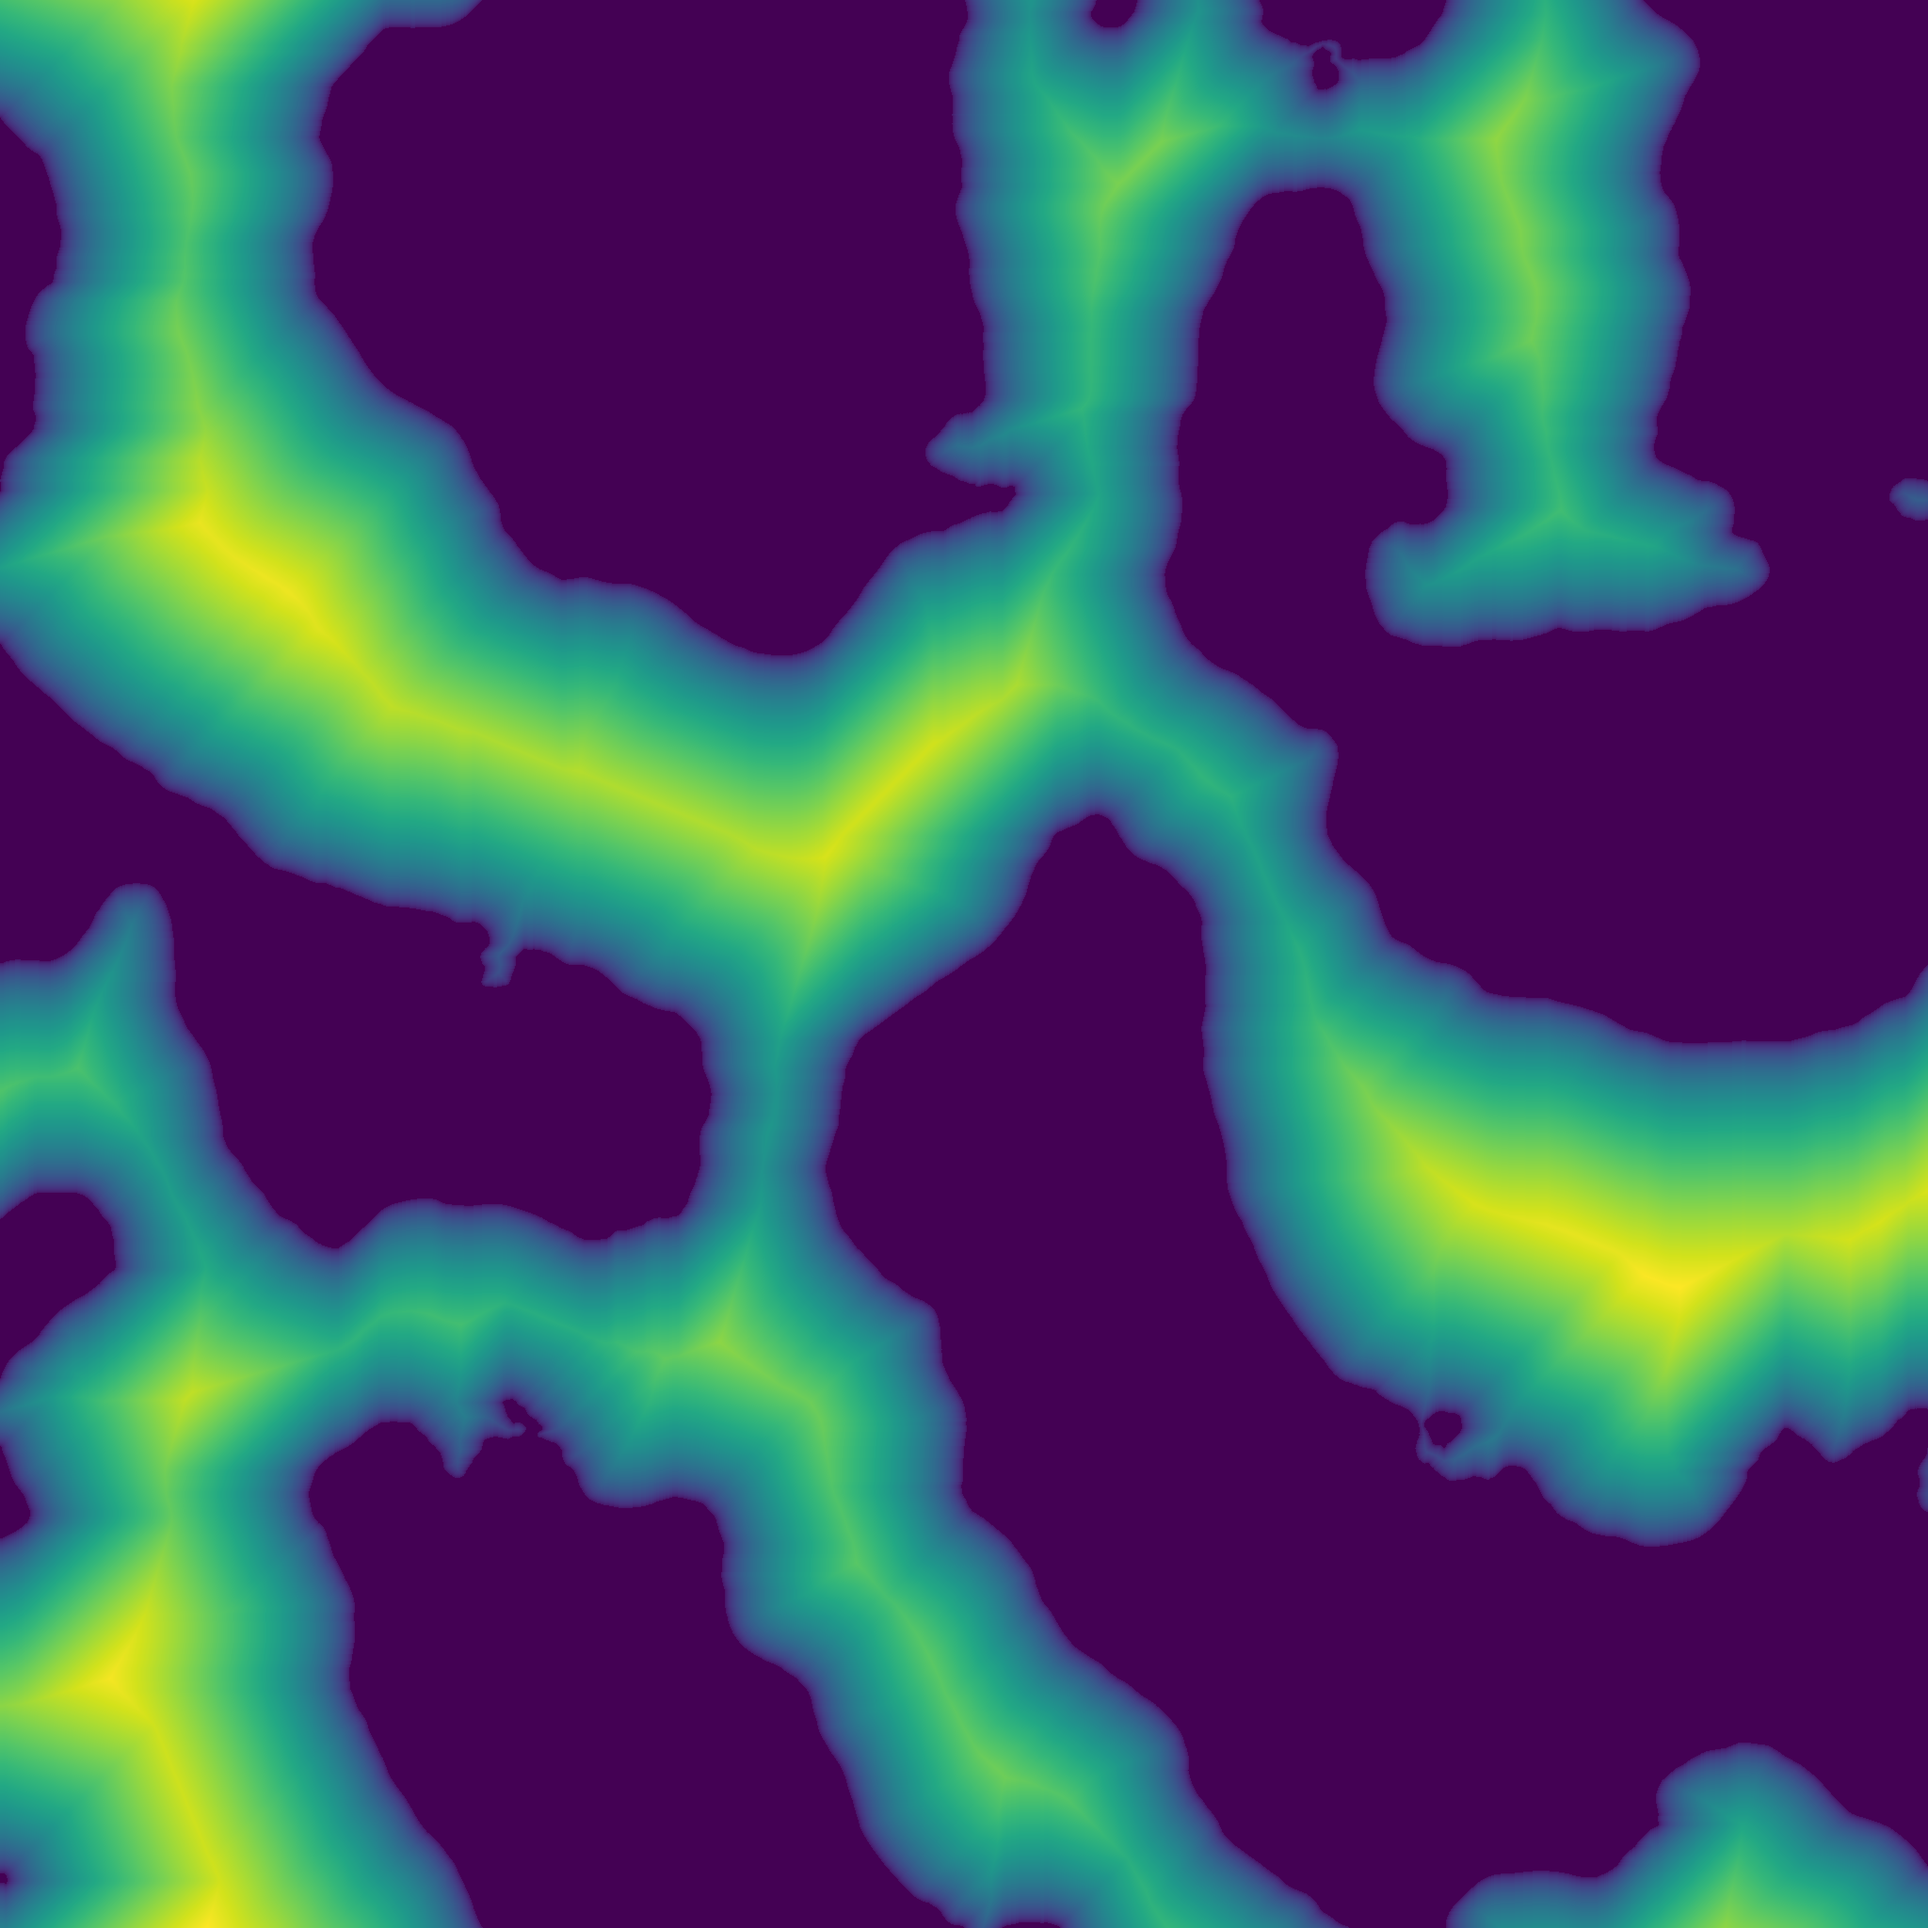
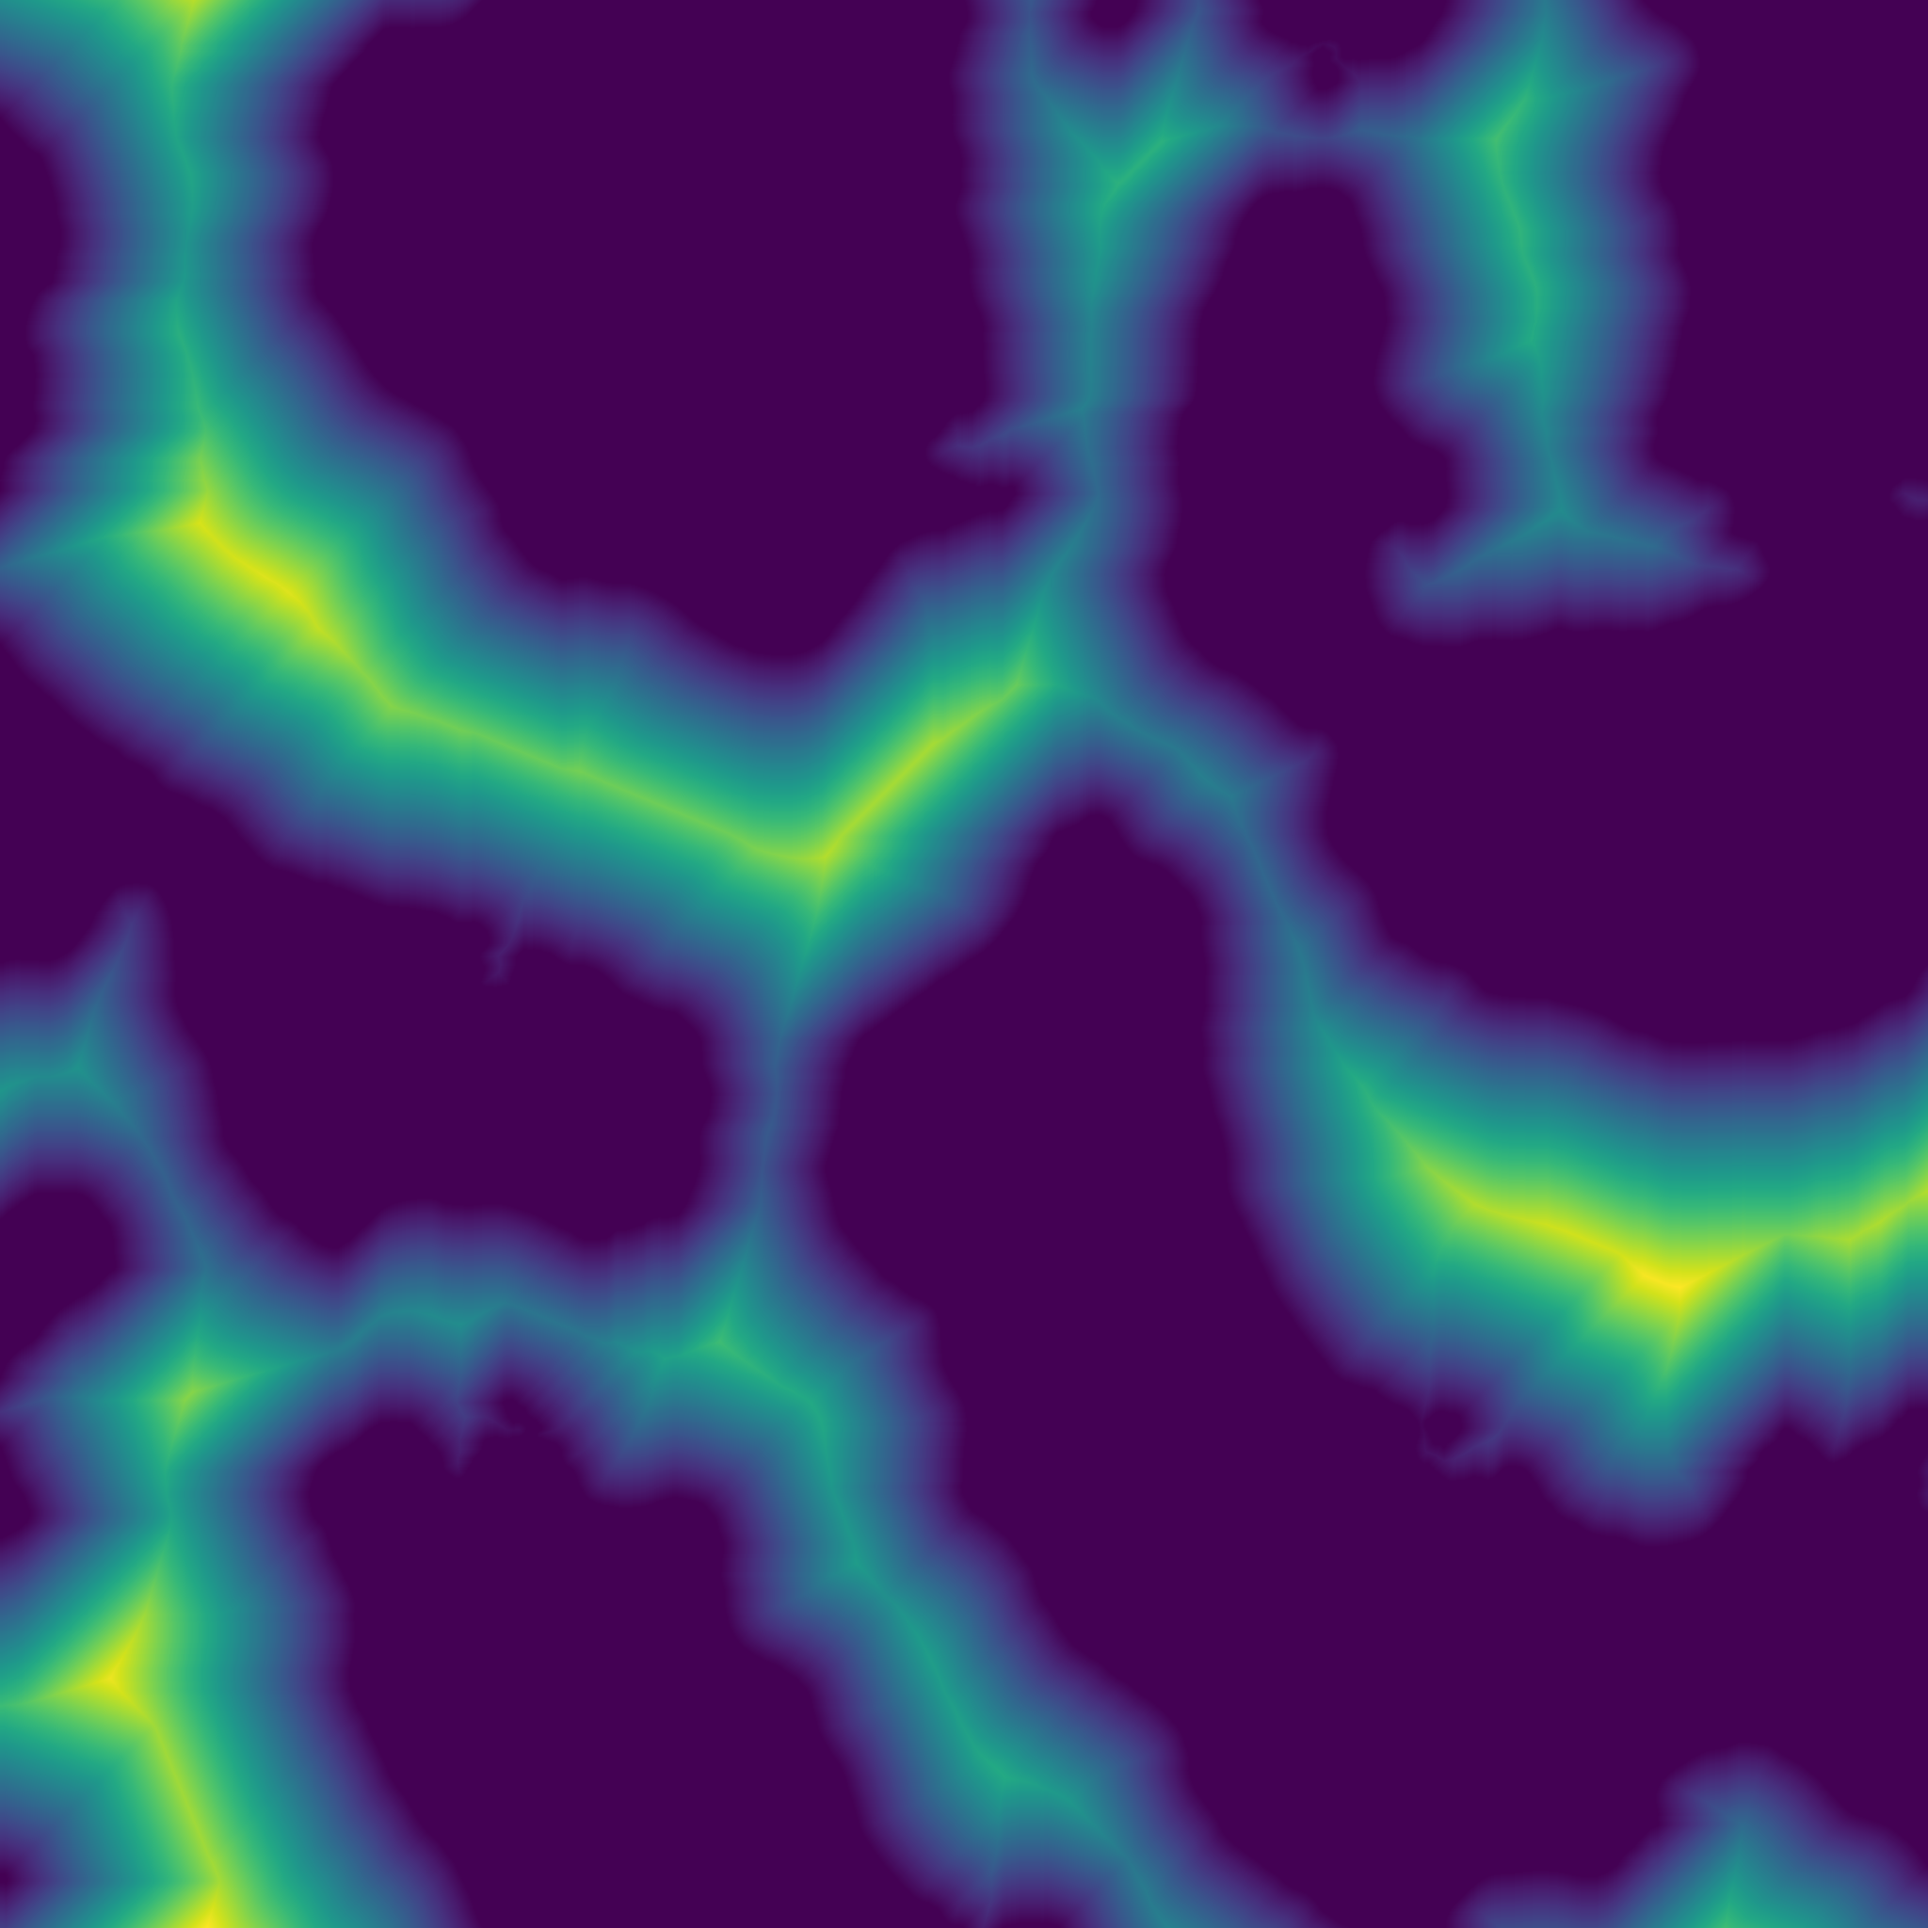
Fix approximate distance transform return value, use approx distance in other functions

diff --git a/HighMap/src/morphology/distance_transform_approx.cpp b/HighMap/src/morphology/distance_transform_approx.cpp
@@ -46,9 +46,9 @@ Array distance_transform_approx(const Array &array,
       }
 
   if (return_squared_distance)
-    return edt;
+    return edt * edt;
   else
-    return sqrt(edt);
+    return edt;
 }
 
 Array distance_transform_manhattan(const Array &array,
@@ -84,9 +84,9 @@ Array distance_transform_manhattan(const Array &array,
       }
 
   if (return_squared_distance)
-    return edt;
+    return edt * edt;
   else
-    return sqrt(edt);
+    return edt;
 }
 
 } // namespace hmap

diff --git a/HighMap/src/geometry/path.cpp b/HighMap/src/geometry/path.cpp
@@ -872,7 +872,7 @@ void dig_path(Array      &z,
   }
 
   mask = maximum_local(mask, width);
-  mask = distance_transform(mask);
+  mask = distance_transform_approx(mask);
   mask = exp(-mask * mask * 0.5f / ((float)(decay * decay)));
   smooth_cpulse(mask, decay);
 

diff --git a/HighMap/src/features/curvature.cpp b/HighMap/src/features/curvature.cpp
@@ -153,7 +153,9 @@ Array valley_width(const Array &z, int ir)
   if (ir > 0) smooth_cpulse(vw, ir);
 
   vw = curvature_mean(-vw);
-  vw = distance_transform(vw);
+  vw = distance_transform_approx(vw);
+
+  vw.infos();
 
   return vw;
 }
